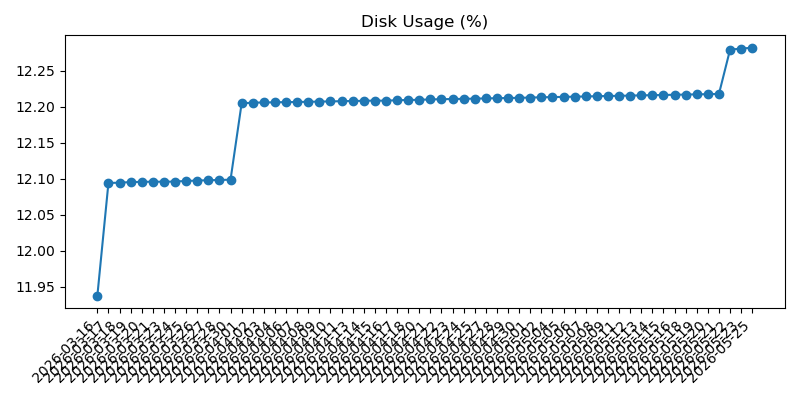
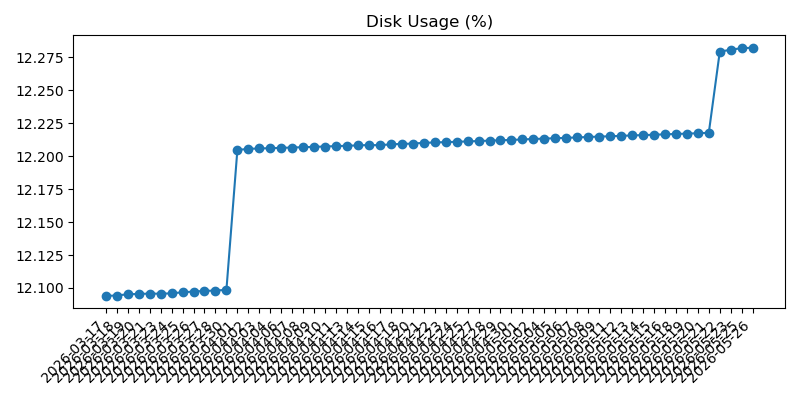
Add daily system and weather report

diff --git a/2026-05.md b/2026-05.md
@@ -714,3 +714,37 @@
 - Overall: Warning
 - Warning: Power issue detected: Undervoltage has occurred; Throttling has occurred
 
+## 2026-05-26 14:33:41
+
+### Machine
+- Uptime: up 5 weeks, 16 hours, 19 minutes
+- CPU load (1m, 5m, 15m): 0.08, 0.02, 0.01
+- RAM used: 172 MB / 921 MB (18.6%)
+- Disk used (/): 3.5 GB / 28.8 GB (12.3%)
+- Free disk space (/): 24.0 GB
+- CPU temp: 45.6°C
+- Voltage / throttling: Undervoltage has occurred; Throttling has occurred
+
+### Reachability
+- Internet check (1.1.1.1): Reachable (3.2 ms)
+
+### Weather
+- Madrid:
+  - Condition: Poco nuboso
+  - Max temp: 32°C
+  - Min temp: 18°C
+  - Feels like: 25°C
+  - Chance of rain: 0%
+  - Warnings: None reported
+- Barcelona:
+  - Condition: Despejado
+  - Max temp: 28°C
+  - Min temp: 19°C
+  - Feels like: 24°C
+  - Chance of rain: 0%
+  - Warnings: None reported
+
+### Health
+- Overall: Warning
+- Warning: Power issue detected: Undervoltage has occurred; Throttling has occurred
+